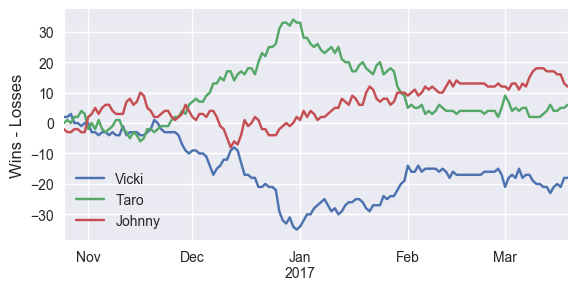
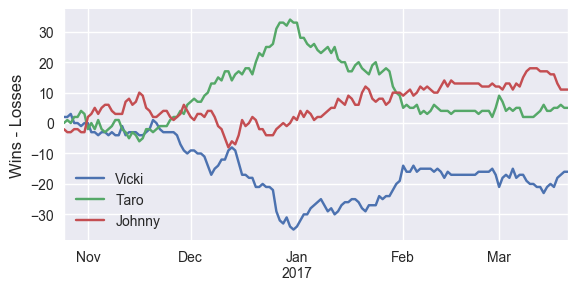
update 3/21

diff --git a/index.html b/index.html
@@ -35,7 +35,7 @@
 <a id="the-bet-is-on" class="anchor" href="#the-bet-is-on" aria-hidden="true"><span aria-hidden="true" class="octicon octicon-link"></span></a>The bet is on.</h1>
 
 <h1>
-<a id="current-winner-of-2016-17-season" class="anchor" href="#current-winner-of-2016-17-season" aria-hidden="true"><span aria-hidden="true" class="octicon octicon-link"></span></a>Current winner of 2016-17 Season (as of 3/19/2017):</h1>
+<a id="current-winner-of-2016-17-season" class="anchor" href="#current-winner-of-2016-17-season" aria-hidden="true"><span aria-hidden="true" class="octicon octicon-link"></span></a>Current winner of 2016-17 Season (as of 3/21/2017):</h1>
 
 <h2>
 <a id="none" class="anchor" href="#none" aria-hidden="true"><span aria-hidden="true" class="octicon octicon-link"></span></a><strong>Johnny</strong>
@@ -44,23 +44,23 @@
 <h2>
 <a id="johnny" class="anchor" href="Johnny.html" aria-hidden="true"><span aria-hidden="true" class="octicon octicon-link"></span>Johnny</a></h2>
 
-<p>Wins: 353<br>
-Losses: 341<br>
-Remaining wins available: 113</p>
+<p>Wins: 356<br>
+Losses: 345<br>
+Remaining wins available: 103</p>
 
 <h2>
 <a id="taro" class="anchor" href="Taro.html" aria-hidden="true"><span aria-hidden="true" class="octicon octicon-link"></span>Taro</a></h2>
 
-<p>Wins: 350<br>
-Losses: 344<br>
-Remaining wins available: 118</p>
+<p>Wins: 352<br>
+Losses: 347<br>
+Remaining wins available: 109</p>
 
 <h2>
 <a id="vicki" class="anchor" href="Vicki.html" aria-hidden="true"><span aria-hidden="true" class="octicon octicon-link"></span>Vicki</a></h2>
 
-<p>Wins: 338<br>
-Losses: 356<br>
-Remaining wins available: 113</p>
+<p>Wins: 341<br>
+Losses: 357<br>
+Remaining wins available: 104</p>
 
 <img src='pythoncode/win_percent.png' alt='Winning Percentage Over Time'>
 <h1>

diff --git a/Johnny.html b/Johnny.html
@@ -35,9 +35,9 @@
 
 <h2>Johnny</h2>
 
-<p>Wins: 353<br>
-Losses: 341<br>
-Remaining wins available: 113</p>
+<p>Wins: 356<br>
+Losses: 345<br>
+Remaining wins available: 103</p>
 
 <h2> Current teams </h2>
 <table border="1">
@@ -55,9 +55,9 @@ Remaining wins available: 113</p>
 </tr>
 <tr>
 <td>Warriors</td>
-<td>55</td>
+<td>56</td>
 <td>14</td>
-<td>13</td>
+<td>12</td>
 </tr>
 <tr>
 <td>Timberwolves</td>
@@ -68,14 +68,14 @@ Remaining wins available: 113</p>
 <tr>
 <td>Hawks</td>
 <td>37</td>
-<td>32</td>
-<td>13</td>
+<td>33</td>
+<td>12</td>
 </tr>
 <tr>
 <td>Celtics</td>
-<td>44</td>
+<td>45</td>
 <td>26</td>
-<td>12</td>
+<td>11</td>
 </tr>
 <tr>
 <td>Pistons</td>
@@ -86,26 +86,26 @@ Remaining wins available: 113</p>
 <tr>
 <td>Nuggets</td>
 <td>33</td>
-<td>36</td>
-<td>13</td>
+<td>37</td>
+<td>12</td>
 </tr>
 <tr>
 <td>Jazz</td>
 <td>43</td>
-<td>27</td>
-<td>12</td>
+<td>28</td>
+<td>11</td>
 </tr>
 <tr>
 <td>Lakers</td>
 <td>20</td>
-<td>49</td>
-<td>13</td>
+<td>50</td>
+<td>12</td>
 </tr>
 <tr>
 <td>Magic</td>
-<td>25</td>
+<td>26</td>
 <td>45</td>
-<td>12</td>
+<td>11</td>
 </tr>
 </table>
 

diff --git a/Taro.html b/Taro.html
@@ -35,9 +35,9 @@
 
 <h2>Taro</h2>
 
-<p>Wins: 350<br>
-Losses: 344<br>
-Remaining wins available: 118</p>
+<p>Wins: 352<br>
+Losses: 347<br>
+Remaining wins available: 109</p>
 
 <h2> Current teams </h2>
 <table border="1">
@@ -50,8 +50,8 @@ Remaining wins available: 118</p>
 <tr>
 <td>Knicks</td>
 <td>27</td>
-<td>42</td>
-<td>13</td>
+<td>43</td>
+<td>12</td>
 </tr>
 <tr>
 <td>Nets</td>
@@ -62,8 +62,8 @@ Remaining wins available: 118</p>
 <tr>
 <td>Thunder</td>
 <td>40</td>
-<td>29</td>
-<td>13</td>
+<td>30</td>
+<td>12</td>
 </tr>
 <tr>
 <td>Raptors</td>
@@ -79,21 +79,21 @@ Remaining wins available: 118</p>
 </tr>
 <tr>
 <td>Hornets</td>
-<td>30</td>
+<td>31</td>
 <td>39</td>
-<td>13</td>
+<td>12</td>
 </tr>
 <tr>
 <td>Rockets</td>
-<td>48</td>
+<td>49</td>
 <td>22</td>
-<td>12</td>
+<td>11</td>
 </tr>
 <tr>
 <td>Wizards</td>
 <td>42</td>
-<td>27</td>
-<td>13</td>
+<td>28</td>
+<td>12</td>
 </tr>
 <tr>
 <td>Kings</td>

diff --git a/Vicki.html b/Vicki.html
@@ -35,9 +35,9 @@
 
 <h2>Vicki</h2>
 
-<p>Wins: 338<br>
-Losses: 356<br>
-Remaining wins available: 113</p>
+<p>Wins: 341<br>
+Losses: 357<br>
+Remaining wins available: 104</p>
 
 <h2> Current teams </h2>
 <table border="1">
@@ -67,9 +67,9 @@ Remaining wins available: 113</p>
 </tr>
 <tr>
 <td>Cavaliers</td>
-<td>45</td>
+<td>46</td>
 <td>23</td>
-<td>14</td>
+<td>13</td>
 </tr>
 <tr>
 <td>Bulls</td>
@@ -80,8 +80,8 @@ Remaining wins available: 113</p>
 <tr>
 <td>76ers</td>
 <td>26</td>
-<td>43</td>
-<td>13</td>
+<td>44</td>
+<td>12</td>
 </tr>
 <tr>
 <td>Grizzlies</td>
@@ -91,9 +91,9 @@ Remaining wins available: 113</p>
 </tr>
 <tr>
 <td>Clippers</td>
-<td>41</td>
+<td>42</td>
 <td>29</td>
-<td>12</td>
+<td>11</td>
 </tr>
 <tr>
 <td>Suns</td>
@@ -103,9 +103,9 @@ Remaining wins available: 113</p>
 </tr>
 <tr>
 <td>Pacers</td>
-<td>35</td>
+<td>36</td>
 <td>34</td>
-<td>13</td>
+<td>12</td>
 </tr>
 </table>
 
